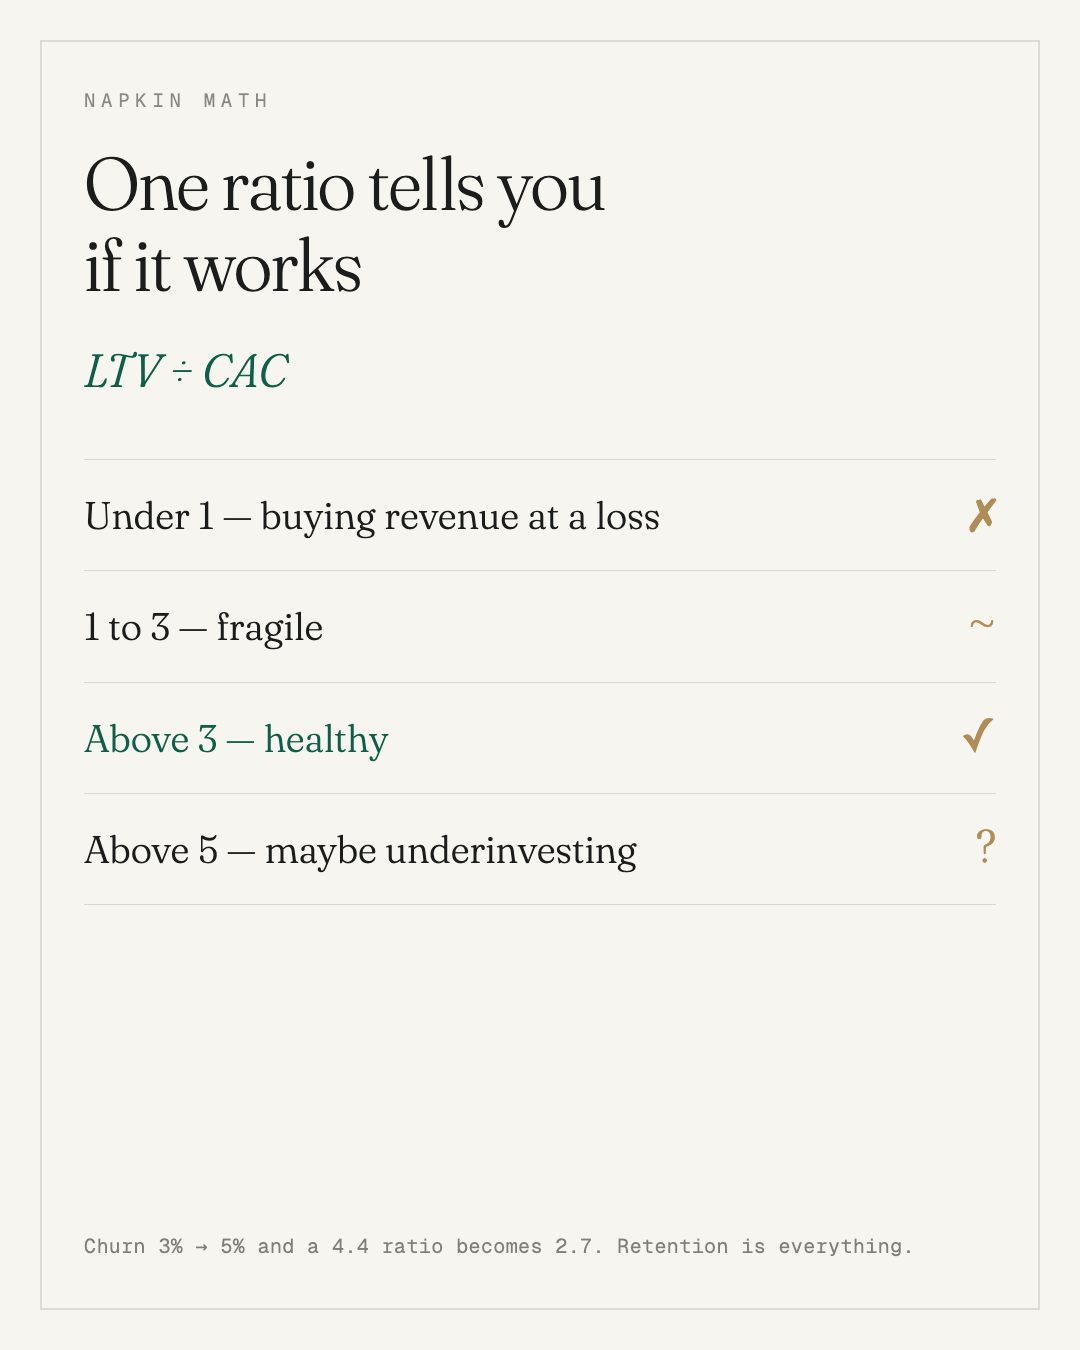
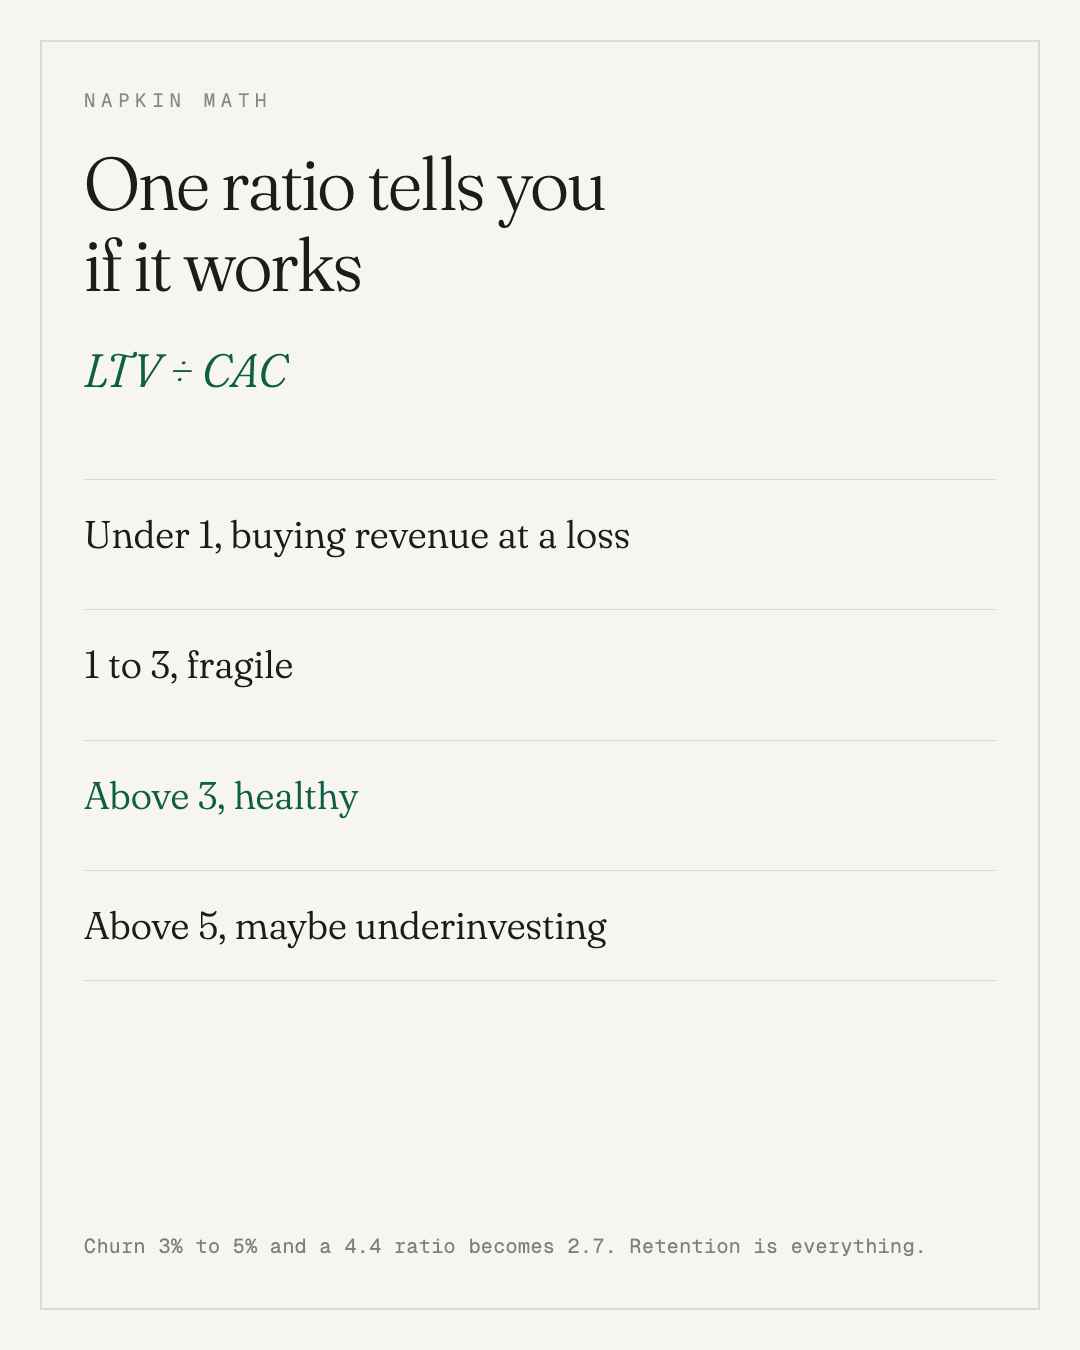
Remove decorative symbols from growth-phase assets, harden engine rules
Regenerated all three value cards with plain typography only (no
diamond, no check/cross glyphs, no em-dashes). New bilingual war-story
post on software rot with clean card. PHASE.md and README now carry a
hard symbol ban that governs every future engine run.

diff --git a/content/linkedin/2026-09-28-software-rots-quietly.md b/content/linkedin/2026-09-28-software-rots-quietly.md
@@ -1,0 +1,41 @@
+# Post 4, this week (war story, bilingual)
+
+**Tip:** Tue-Wed 8-10am, personal profile. Attach `images/post4-software-rots.png`. No link needed for this one, or the maintenance article in FIRST COMMENT phrased as "wrote more on this".
+
+---
+
+An app I know of died last year. Nobody broke it. It just stopped being looked after.
+
+Here's what actually killed it, in order. Apple shipped an OS update and one permission flow stopped working. Fourteen months went by with zero releases, because "it's done, why would we pay to touch it". A payment library quietly went end of life. Then a security certificate expired on a Friday, and by Monday the app was off the store.
+
+Total cost of the failure that week: more than five years of the maintenance budget they refused.
+
+Software isn't a product you buy, it's more like a garden you rent. Skip a season and the weeds don't send a warning, they just move in. The boring math most teams use: keeping software alive runs 15 to 20 percent of what it cost to build, every year. That's not upsell, that's physics. Platforms move, dependencies age, certificates expire on Fridays.
+
+So if you own software, or you're about to commission some, ask two questions early.
+
+Who watches this after launch, and what exactly do they watch? Releases, dependencies, certificates, store policy changes. Get the list in writing. A retainer with no checklist is a garden nobody walks.
+
+And what's the plan for the year you can't afford it? Because the year comes. An app left untouched for over a year isn't paused, it's decaying, invisibly, on a schedule set by Apple and Google and whoever wrote your payment library.
+
+Wrote more about the maintenance math, link in comments if useful.
+
+What's the oldest piece of software you still have to keep alive? War stories welcome, mine's a 2014 checkout flow I'd rather not discuss.
+
+#SoftwareDevelopment #Startups #Maintenance
+
+---
+
+النسخة العربية:
+
+تطبيق أعرفه مات العام الماضي. لم يكسره أحد، فقط توقف أحد عن الاعتناء به.
+
+ما قتله فعلاً وبالترتيب: تحديث نظام من آبل أوقف إحدى الصلاحيات. أربعة عشر شهراً بلا أي إصدار لأن التطبيق «انتهى». مكتبة دفع صارت مهجورة. ثم شهادة أمنية انتهت يوم جمعة، وبعد الاثنين كان التطبيق خارج المتجر.
+
+كلفة ذلك الأسبوع تجاوزت مصاريف صيانة خمس سنوات كاملة رفضوا دفعها.
+
+البرمجيات ليست منتجاً تشتريه، بل حديقة تستأجرها. اتركها موسماً وستزحف الأعشاب دون إنذار. والحساب المتداول: إبقاء البرمجية حية يكلف ١٥ إلى ٢٠ بالمئة من كلفة بنائها، سنوياً.
+
+سؤالان مبكران يوفران كل هذا: من يراقب التطبيق بعد الإطلاق وبالضبط ماذا يراقب؟ وما الخطة في السنة التي لا تستطيع فيها الدفع؟
+
+التطبيق المتروك سنة كاملة ليس «متوقفاً»، بل يتحلل بصمت وفق جدول وضعت آبل وجوجل مواعيده.

diff --git a/content/linkedin/PHASE.md b/content/linkedin/PHASE.md
@@ -6,13 +6,20 @@ phase: 1 — GROWTH (help first)
 
 - Posts are GENERAL, helpful, educational. Teach something a founder,
   product person, or developer can use today. Zero IQAAN pitching:
-  no tool launches, no taglines, no brand story, no "we built".
+  no tool launches, no taglines, no brand story, no "we built",
+  and no brand copy (including Arabic taglines) on images.
+- HARD SYMBOL BAN (applies to posts AND images in every phase):
+  no em-dashes (use commas, periods, colons, or parentheses instead),
+  no decorative glyphs of any kind (rotated squares/diamonds, stars,
+  check marks, crosses, arrows), no middle-dot separators, no emoji.
+  Plain punctuation and typography only. Math symbols (× ÷ %) inside
+  an actual formula are fine.
 - Linking a relevant educational article in the first comment is fine
   (iqaan.com/insights/...). Phrase it personally: "I wrote more about
   this, link in comments." Never "check out our".
 - Images are value cards: the lesson itself (checklist, formula,
-  numbers) in the paper/ink typographic style. NO IQAAN wordmark on
-  the image. The small gold diamond alone is the only signature.
+  numbers) in the paper/ink typographic style. NO wordmark, NO brand
+  marks, NO decorative symbols.
 - Goal metrics: follows, saves, comments from the right people.
 
 ## Switching to phase 2 — BRAND (only when the user says so)

diff --git a/content/linkedin/README.md b/content/linkedin/README.md
@@ -18,7 +18,8 @@ Each file is one ready-to-post draft with its card image in `images/`.
 ## Voice rules
 
 - Reads like the founder wrote it: anecdotes, contractions, varied rhythm, one informal beat.
-- No AI tells: no arrow bullets, no emoji, no hashtag walls (max 3), no perfect parallelism.
+- HARD SYMBOL BAN (posts and images, all phases): no em-dashes, no decorative glyphs (diamonds, stars, checks, crosses, arrows), no middle dots, no emoji. Plain punctuation only. If a line smells generated, rewrite it.
+- No AI tells: no arrow bullets, no hashtag walls (max 3), no perfect parallelism.
 - One idea per post, always ends with a save or answer prompt.
 
 ## Feedback loop
